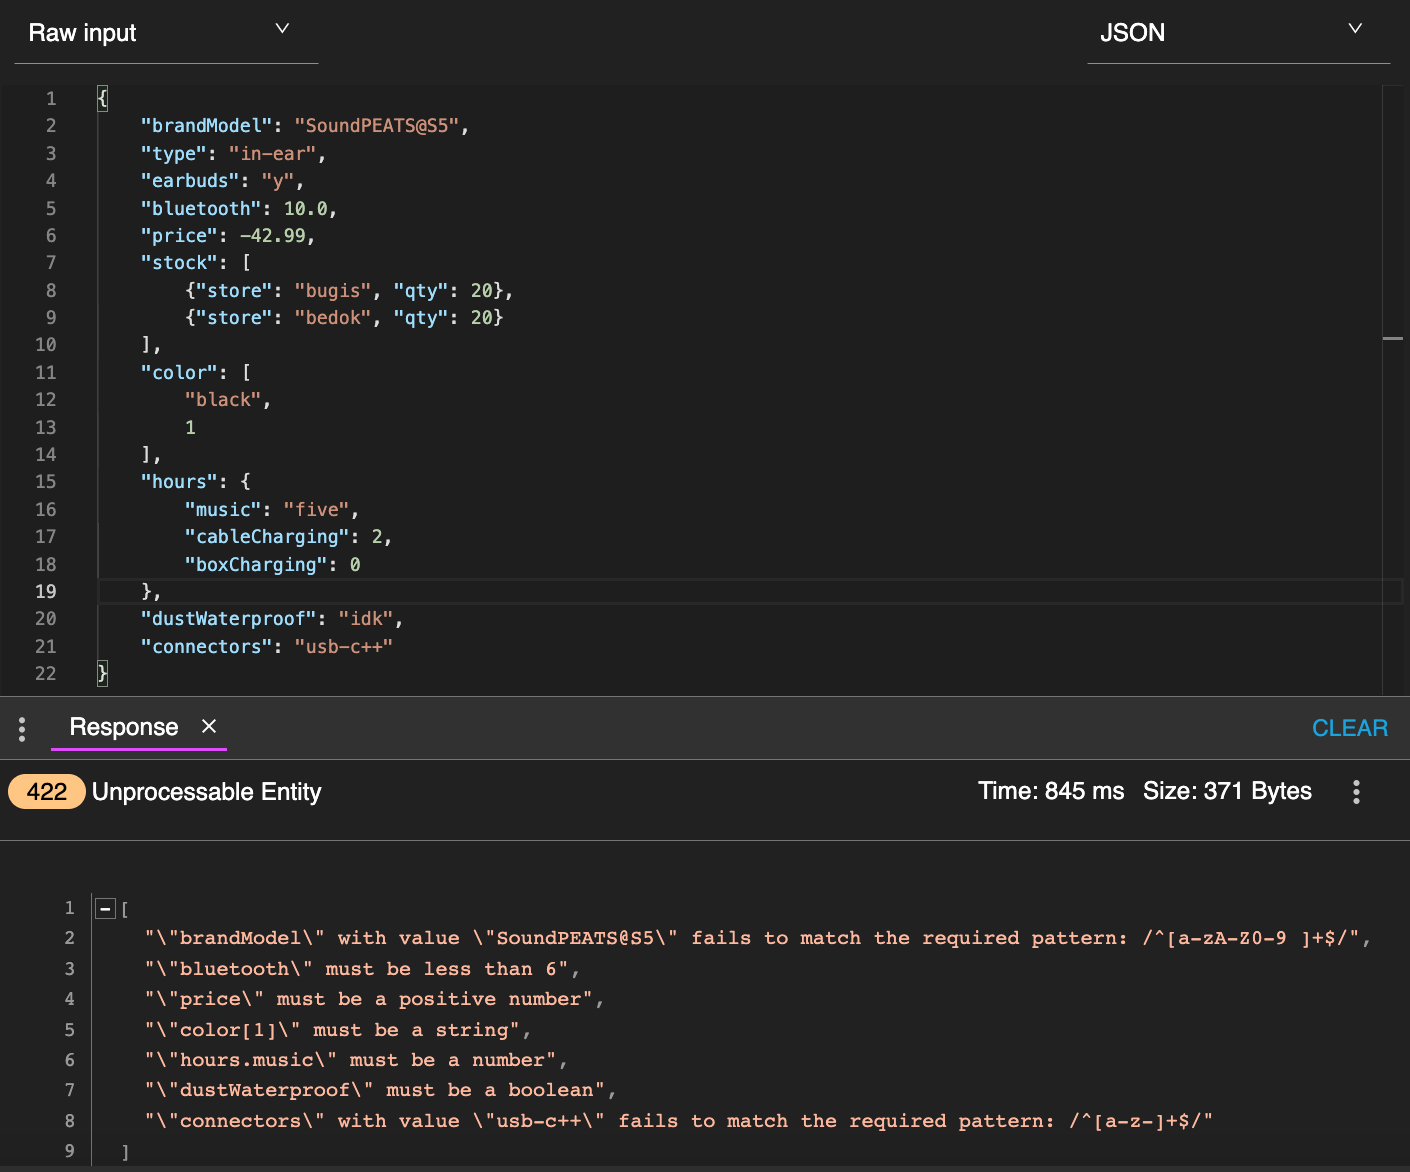
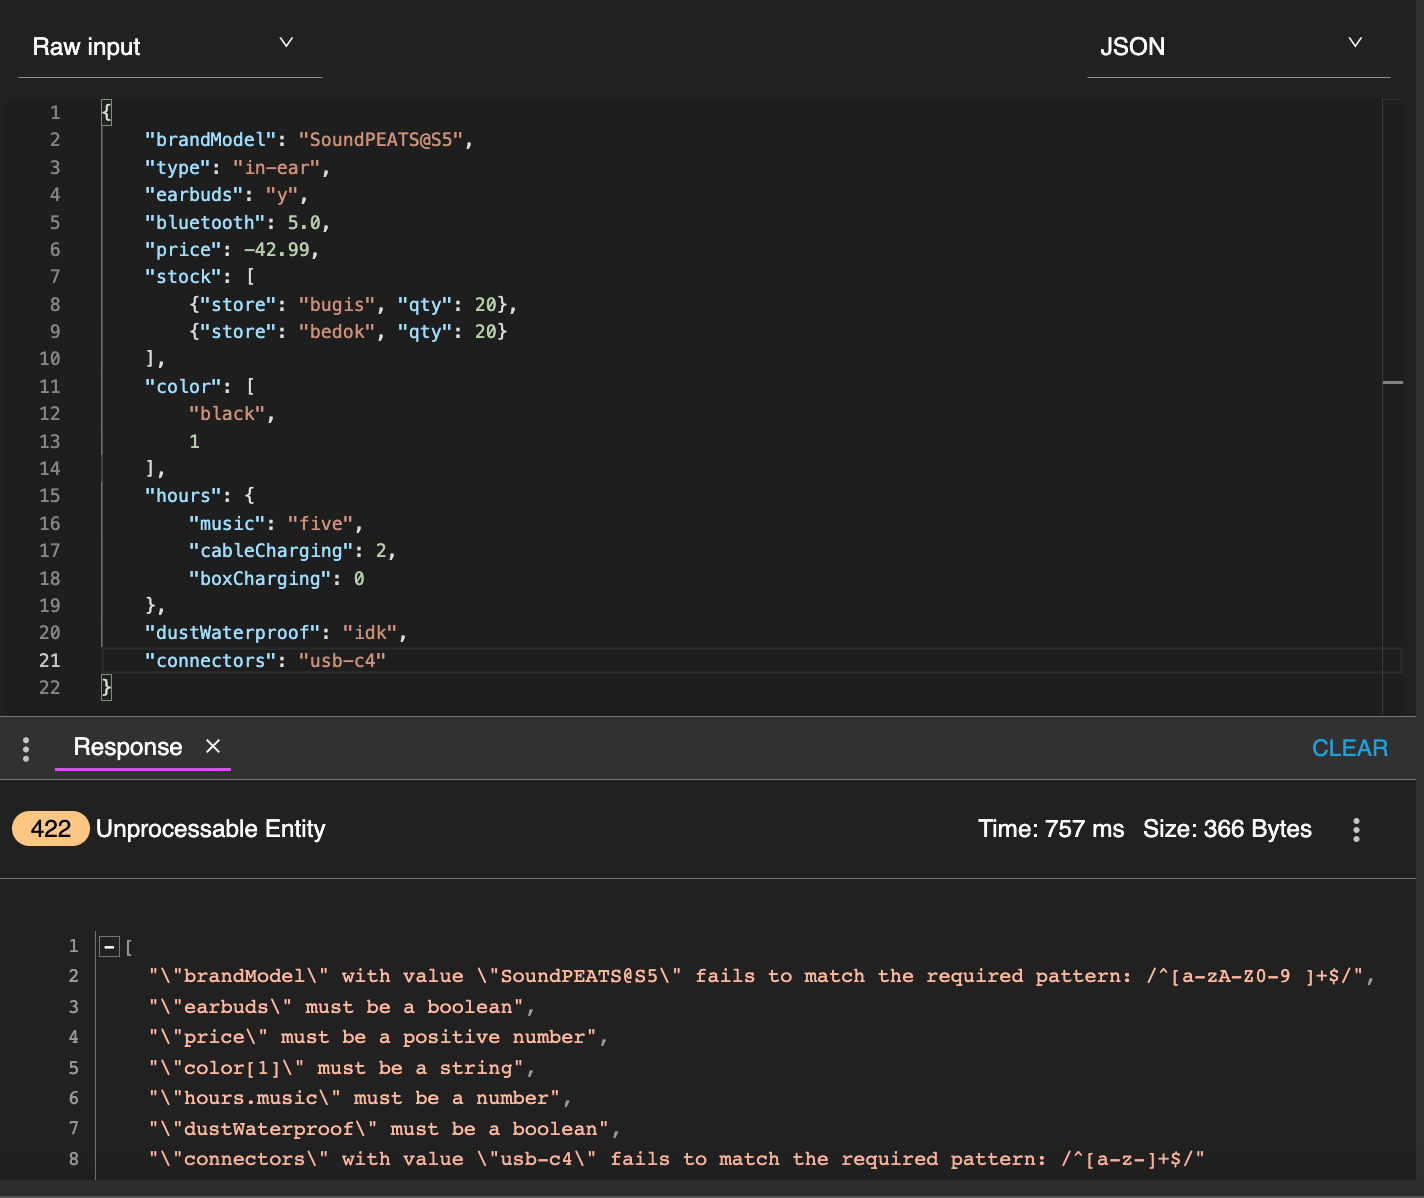
amended search query

diff --git a/validator.js b/validator.js
@@ -12,13 +12,13 @@ const validator = (schema) => (payload) => schema.validate(payload, {
 const productSchema = Joi.object({
     brandModel: Joi.string().regex(/^[a-zA-Z0-9 ]+$/).required(),
     type: Joi.string().regex(/^[a-z-]+$/).required(),
-    earbuds: Joi.boolean().truthy('yes','y').falsy('no','n').required(),
+    earbuds: Joi.boolean().required(),
     bluetooth: positiveNum.less(6),
     price: positiveNum,
     stock: Joi.array().items(Joi.object({store: Joi.string(), qty: positiveInt})),
     color: Joi.array().items(Joi.string()).required(),
     hours: Joi.object({music: positiveInt, cableCharging: positiveInt, boxCharging: positiveInt.allow(0)}).required(),
-    dustWaterproof: Joi.boolean().truthy('yes','y').falsy('no','n').required(),
+    dustWaterproof: Joi.boolean().required(),
     connectors: Joi.string().regex(/^[a-z-]+$/).required()
 })
 
@@ -28,7 +28,7 @@ const paramsQuerySchema = Joi.object({
     store: Joi.string().regex(/^[a-z]+$/),
     color: Joi.string().regex(/^[a-z]+$/),
     otherColor: Joi.string().regex(/^[a-z&,]+$/),
-    hours: Joi.number(),
+    otherHours: Joi.number(),
     min_price: Joi.number(),
     max_price: Joi.number(),
     id: Joi.string().alphanum().trim(),

diff --git a/index.js b/index.js
@@ -83,10 +83,10 @@ async function main() {
             }
         }
 
-        if(req.query.hours) {
+        if(req.query.otherHours) {
             criteria['hours.music'] = {
                 '$not': {
-                    '$eq': parseInt(req.query.hours)
+                    '$eq': parseInt(req.query.otherHours)
                 }
             }
         }

diff --git a/README.md b/README.md
@@ -37,13 +37,13 @@ Earphone collection template
 {
     "brandModel": <string>
     "type": <string>
-    "earbuds": <boolean> i.e 'yes', 'no', 'y', 'n'
+    "earbuds": <boolean> i.e true, false
     "bluetooth": <float>
     "price": <integer>
     "stock": <array of objects> i.e [{"store": <string>, "qty": <integer>}]
     "color": <array>
     "hours": <object> i.e {"music": <integer>, "cableCharging": <integer>, "boxCharging": <integer>}
-    "dustWaterproof": <boolean> i.e 'yes', 'no', 'y', 'n'
+    "dustWaterproof": <boolean> i.e true, false
     "connectors": <string>
     "review": <array of objects> i.e [{"email": <string>, "comments": <string>, "rating": <integer>}]
 }
@@ -92,21 +92,21 @@ User collection template
 **Method** | GET
 **Endpoint Path** | /earphone?`parameter or empty`
 **Body** | N/A
-**Parameters** |  type=`string`, hours=`integer`, store=`string`, color=`string`, min_price=`integer/float`, max_price=`integer/float`
-|| Inverse: otherColor=`string`, otherType=`string`
+**Parameters** |  type=`string`, store=`string`, color=`string`, min_price=`integer/float`, max_price=`integer/float`
+|| Inverse: otherHours=`integer`, otherColor=`string`, otherType=`string`
 **Expected Response** | `{ "page": 1, "limit": 2, "result": [{...},{...}]}`
 |||
 **Title** | Create a new product
 **Method** | POST
 **Endpoint Path** | /add
-**Body** | earphone template **without review**
+**Body** | earphone collection template **without review**
 **Parameters** | N/A
 **Expected Response** | `{ "message": "Created successfully" }`
 |||
 **Title** | Update a product
 **Method** | PUT
 **Endpoint Path** | /earphone/`:id`
-**Body** | earphone template **without review**
+**Body** | earphone collection collection template **without review**
 **Parameters** | :id - _id of earphone object in document
 **Expected Response** | `{ "message": "Updated successfully" }`
 |||
@@ -206,15 +206,15 @@ User collection template
 |||
 **Method** | GET
 **Endpoint Path** | /earphone
-**Body & Expected Response** | <img src="images/result.png" width=40%>
+**Body & Expected Response** | <img src="images/result.png" width=50%>
 |||
 **Method** | GET
 **Endpoint Path** | /earphone?color=blue
-**Body & Expected Response** | <img src="images/blue.png" width=40%>
+**Body & Expected Response** | <img src="images/blue.png" width=50%>
 |||
 **Method** | GET
 **Endpoint Path** | /earphone?page=1&limit=1
-**Body & Expected Response** | <img src="images/page1&limit1.png" width=40%>
+**Body & Expected Response** | <img src="images/page1&limit1.png" width=50%>
 |||
 **Method** | PUT
 **Endpoint Path** | /earphone/630ef7f15ea1b97eebcbbe75
